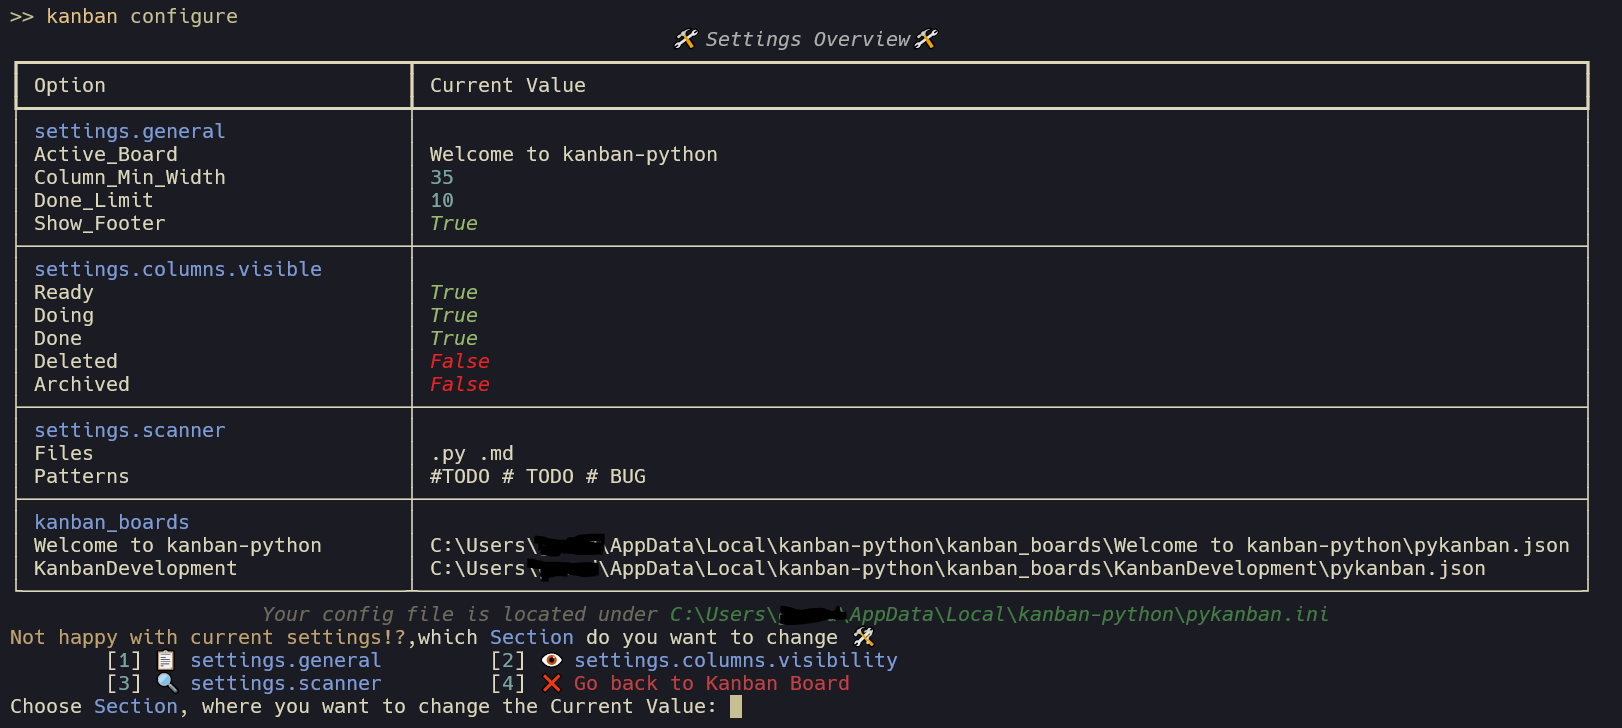
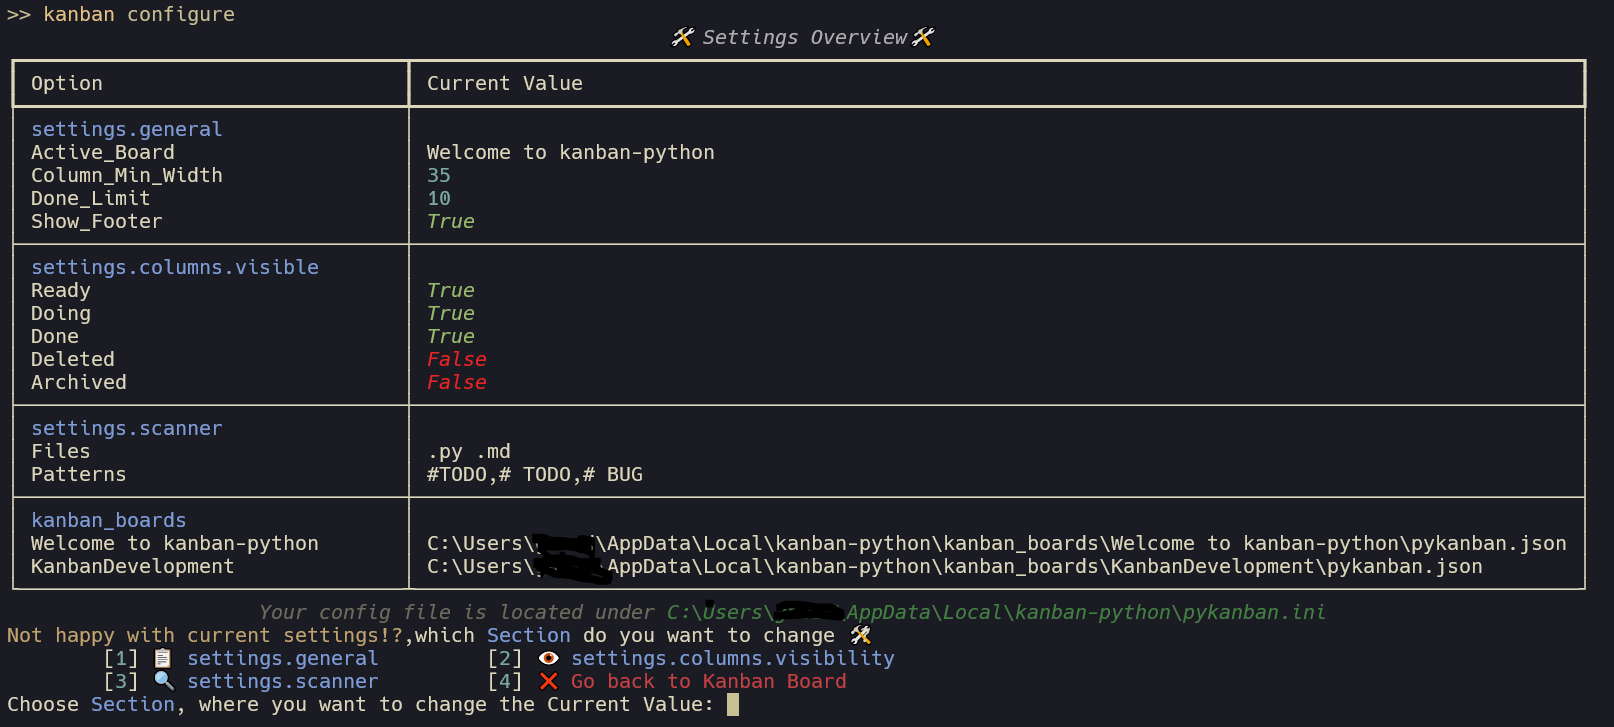
Fix Pattern separator default when changing settings.scanner

Changed region(s): [[0.0, 0.0303, 0.9913, 0.9986], [0.0, 0.0, 0.1549, 0.0303]]

diff --git a/src/kanban_python/interface.py b/src/kanban_python/interface.py
@@ -430,7 +430,7 @@ def input_change_files_to_scan_settings():
 def input_change_patterns_to_scan_settings():
     files_to_scan = Prompt.ask(
         prompt="Which Patterns to scan? Enter [green]','[/] separated Patterns",
-        default=" ".join(cfg.scanned_patterns),
+        default=",".join(cfg.scanned_patterns),
         show_default=True,
     )
 

diff --git a/CHANGELOG.md b/CHANGELOG.md
@@ -1,5 +1,9 @@
 # Changelog
 
+## Version 0.3.4
+- Bug fix: default separator for `settings.scanner` Pattern setting was space separated not comma separated
+- Fix Image for kanban configure to show right Pattern
+
 ## Version 0.3.3
 - Push lower bound Version of `platformdirs` dependency to be 3 or higher to include `ensure_exists` argument
 in `user_data_dir` and `user_config_dir`.
